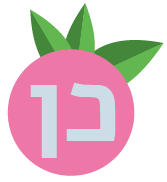
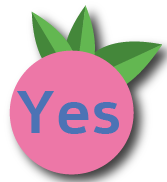
Rinat changed the yes btn to english

diff --git a/tablet_app/tangram_mindset_app.py b/tablet_app/tangram_mindset_app.py
@@ -227,7 +227,7 @@ root_widget = Builder.load_string('''
             borders: 2, 'solid', (1,1,0,1)
             background_normal: './tablet_app/images/worlds/w1/PriceBtn.png'
             background_down: './tablet_app/images/worlds/w1/PriceBtn_on.png'
-            size: root.width * 0.14, root.height * 0.15
+            size: root.width * 0.25, root.height * 0.25
             pos: root.width * 0.5 - self.width * 0.5, root.height * 0.8 - self.height * 0.5
             on_press: app.press_yes_button()
             opacity: 0
